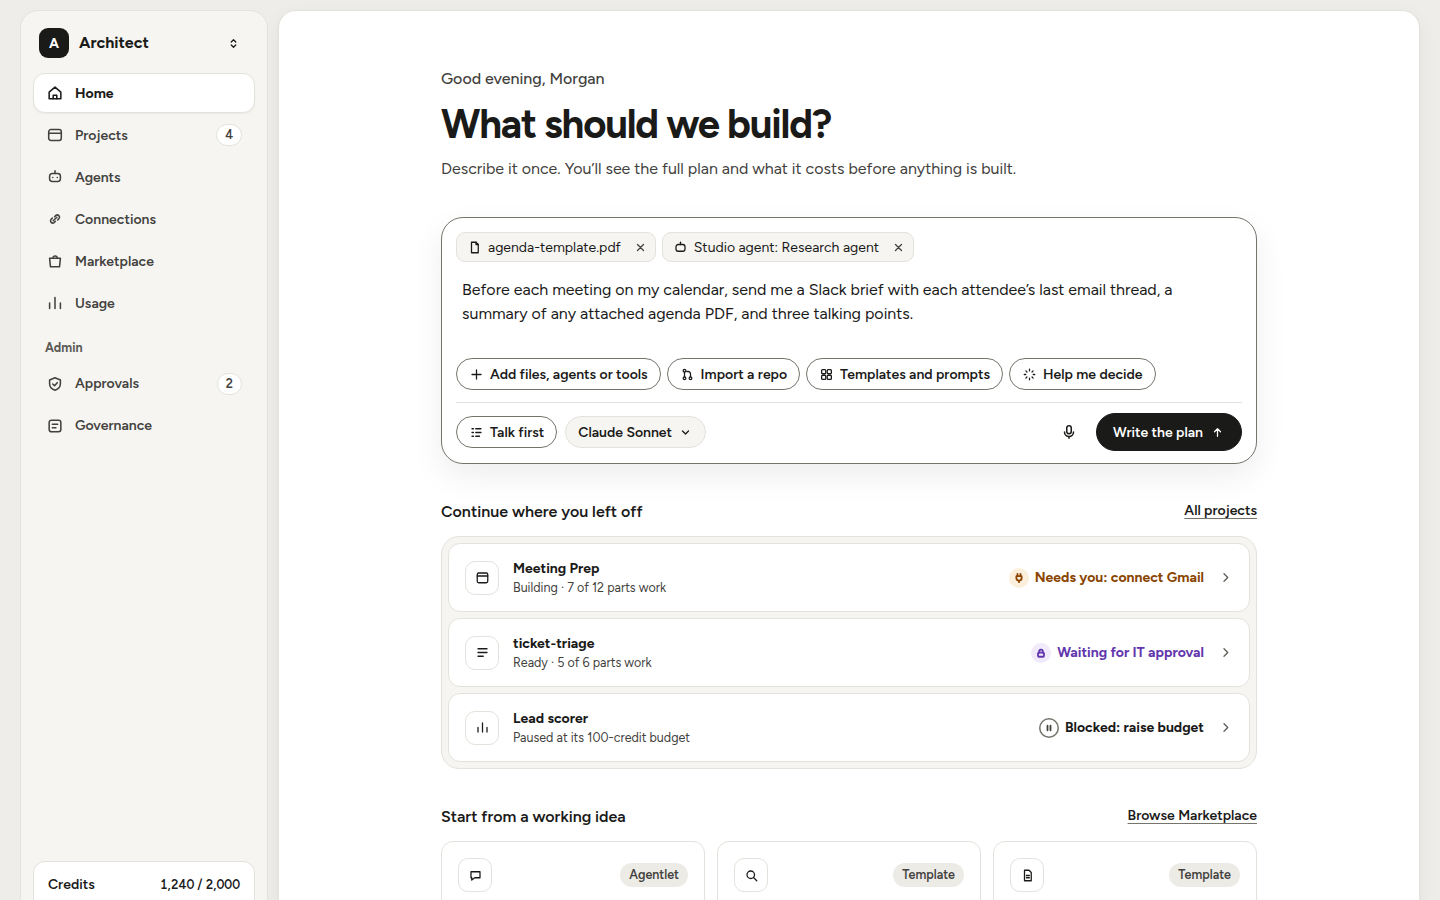
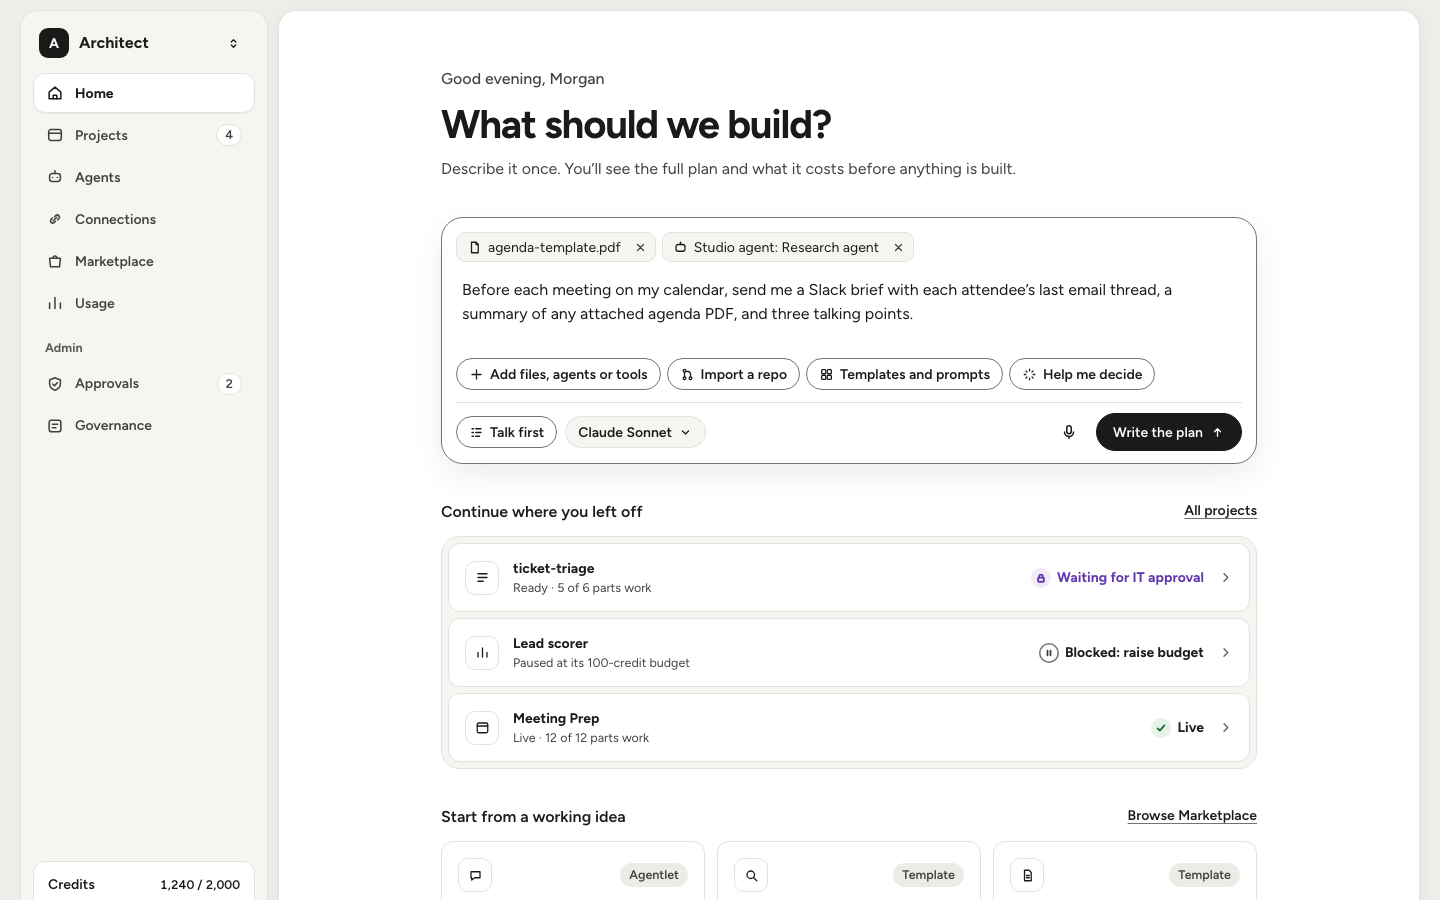
Show Sam as ticket-triage's owner, and Meeting Prep as live on screens 1 and 12
projects.owner_display_name lets lists show Sam while the signed-in person
is the real owner until the F8 hand-off; the seeded approvals carry Sam as
requester. Screens 1 and 12 now show Meeting Prep as Live, 12 of 12, with
a quiet check, matching the seed.

diff --git a/docs/screens/C12-Projects-Help.html b/docs/screens/C12-Projects-Help.html
@@ -40,7 +40,7 @@
 <div class="row" style="flex-wrap: wrap"><div class="col" style="gap: 4px; flex: 1"><h1 class="t-28">Projects</h1><span class="c2">4 projects · 372 credits used this month</span></div><label class="sr" for="find">Find a project</label><input id="find" placeholder="Find a project" style="min-height: 38px; border: 1px solid var(--line-ctl); border-radius: 9999px; padding: 0 16px; width: 220px; background: var(--surface)"><a class="btn pri" href="#"><svg class="ic s" viewBox="0 0 20 20" aria-hidden="true"><path d="M10 4v12M4 10h12"/></svg>New project</a></div>
 <div class="seg" role="group" aria-label="Show" style="align-self: flex-start"><button class="on" type="button" aria-pressed="true">All 4</button><button type="button" aria-pressed="false">Needs you 2</button><button type="button" aria-pressed="false">Live 1</button><button type="button" aria-pressed="false">Drafts 1</button></div>
 <div class="tray">
-<div class="lrow"><span class="tile dark" aria-hidden="true"><svg class="ic s" viewBox="0 0 20 20"><rect x="3" y="4" width="14" height="13" rx="2"/><path d="M3 8h14"/></svg></span><span class="col" style="flex: 1; min-width: 0"><a href="#" style="font-weight: 650; text-decoration: none">Meeting Prep</a><span class="t-12 c2">Morgan · 2 h ago · 172 credits</span></span><span class="tools"><span class="ini">C</span><span class="ini">G</span><span class="ini">S</span></span><span class="statusw w-attention" style="width: 210px"><i></i>Needs you: connect Gmail</span><button class="icb q" type="button" aria-label="Actions for Meeting Prep: open, duplicate, download code, share, delete"><svg class="ic" viewBox="0 0 20 20" aria-hidden="true"><circle cx="5" cy="10" r="1.1"/><circle cx="10" cy="10" r="1.1"/><circle cx="15" cy="10" r="1.1"/></svg></button></div>
+<div class="lrow"><span class="tile dark" aria-hidden="true"><svg class="ic s" viewBox="0 0 20 20"><rect x="3" y="4" width="14" height="13" rx="2"/><path d="M3 8h14"/></svg></span><span class="col" style="flex: 1; min-width: 0"><a href="#" style="font-weight: 650; text-decoration: none">Meeting Prep</a><span class="t-12 c2">Morgan · 2 h ago · 172 credits</span></span><span class="tools"><span class="ini">C</span><span class="ini">G</span><span class="ini">S</span></span><span class="statusw" style="width: 210px"><span class="st works" style="margin: 0"><svg viewBox="0 0 16 16" aria-hidden="true"><path d="M3.5 8.5l3 3 6-7"/></svg></span>Live</span><button class="icb q" type="button" aria-label="Actions for Meeting Prep: open, duplicate, download code, share, delete"><svg class="ic" viewBox="0 0 20 20" aria-hidden="true"><circle cx="5" cy="10" r="1.1"/><circle cx="10" cy="10" r="1.1"/><circle cx="15" cy="10" r="1.1"/></svg></button></div>
 <div class="lrow"><span class="tile" aria-hidden="true"><svg class="ic s" viewBox="0 0 20 20"><path d="M4 5h12M4 10h12M4 15h7"/></svg></span><span class="col" style="flex: 1; min-width: 0"><a href="#" style="font-weight: 650; text-decoration: none">ticket-triage</a><span class="t-12 c2">Sam · yesterday · 96 credits</span></span><span class="tools"><span class="ini">Z</span><span class="ini">S</span></span><span class="statusw w-approval" style="width: 210px"><i></i>Waiting for IT approval</span><button class="icb q" type="button" aria-label="Actions for ticket-triage"><svg class="ic" viewBox="0 0 20 20" aria-hidden="true"><circle cx="5" cy="10" r="1.1"/><circle cx="10" cy="10" r="1.1"/><circle cx="15" cy="10" r="1.1"/></svg></button></div>
 <div class="lrow"><span class="tile" aria-hidden="true"><svg class="ic s" viewBox="0 0 20 20"><path d="M4 16V10M10 16V4M16 16v-6"/></svg></span><span class="col" style="flex: 1; min-width: 0"><a href="#" style="font-weight: 650; text-decoration: none">Lead scorer</a><span class="t-12 c2">Morgan · Monday · 100 credits</span></span><span class="tools"><span class="ini">H</span></span><span class="statusw" style="width: 210px"><i></i>Blocked: budget used</span><button class="icb q" type="button" aria-label="Actions for Lead scorer"><svg class="ic" viewBox="0 0 20 20" aria-hidden="true"><circle cx="5" cy="10" r="1.1"/><circle cx="10" cy="10" r="1.1"/><circle cx="15" cy="10" r="1.1"/></svg></button></div>
 <div class="lrow"><span class="tile" aria-hidden="true"><svg class="ic s" viewBox="0 0 20 20"><path d="M6 3h6l3 3v11H6z"/></svg></span><span class="col" style="flex: 1; min-width: 0"><a href="#" style="font-weight: 650; text-decoration: none">Vendor tracker</a><span class="t-12 c2">Morgan · last week · 4 credits</span></span><span class="tools"><span class="ini">S</span><span class="ini">N</span></span><span class="statusw c2" style="width: 210px"><i></i>Plan ready, not built</span><button class="icb q" type="button" aria-label="Actions for Vendor tracker"><svg class="ic" viewBox="0 0 20 20" aria-hidden="true"><circle cx="5" cy="10" r="1.1"/><circle cx="10" cy="10" r="1.1"/><circle cx="15" cy="10" r="1.1"/></svg></button></div>

diff --git a/docs/screens/C01-Home.html b/docs/screens/C01-Home.html
@@ -66,9 +66,9 @@
 <section class="col" style="gap: 12px" aria-labelledby="cont">
 <div class="sech"><h2 id="cont" class="t-16">Continue where you left off</h2><span class="sp"></span><a href="#" class="lnk">All projects</a></div>
 <div class="tray">
-<a class="lrow" href="#"><span class="tile" aria-hidden="true"><svg class="ic s" viewBox="0 0 20 20"><rect x="3" y="4" width="14" height="13" rx="2"/><path d="M3 8h14"/></svg></span><span class="col" style="flex: 1; min-width: 0"><strong style="font-weight: 650">Meeting Prep</strong><span class="t-12 c2">Building · 7 of 12 parts work</span></span><span class="statusw w-attention"><span class="st attention" style="margin: 0"><svg viewBox="0 0 16 16" aria-hidden="true"><path d="M6 2.5v3M10 2.5v3M4.5 5.5h7v2.5a3.5 3.5 0 0 1-7 0zM8 11.5v2"/></svg></span>Needs you: connect Gmail</span><svg class="ic s c3" viewBox="0 0 20 20" aria-hidden="true"><path d="M8 5l5 5-5 5"/></svg></a>
 <a class="lrow" href="#"><span class="tile" aria-hidden="true"><svg class="ic s" viewBox="0 0 20 20"><path d="M4 5h12M4 10h12M4 15h7"/></svg></span><span class="col" style="flex: 1; min-width: 0"><strong style="font-weight: 650">ticket-triage</strong><span class="t-12 c2">Ready · 5 of 6 parts work</span></span><span class="statusw w-approval"><span class="st approval" style="margin: 0"><svg viewBox="0 0 16 16" aria-hidden="true"><rect x="4" y="7.5" width="8" height="5.5" rx="1.3"/><path d="M5.6 7.5V6a2.4 2.4 0 0 1 4.8 0v1.5"/></svg></span>Waiting for IT approval</span><svg class="ic s c3" viewBox="0 0 20 20" aria-hidden="true"><path d="M8 5l5 5-5 5"/></svg></a>
 <a class="lrow" href="#"><span class="tile" aria-hidden="true"><svg class="ic s" viewBox="0 0 20 20"><path d="M4 16V10M10 16V4M16 16v-6"/></svg></span><span class="col" style="flex: 1; min-width: 0"><strong style="font-weight: 650">Lead scorer</strong><span class="t-12 c2">Paused at its 100-credit budget</span></span><span class="statusw"><span class="st todo" style="margin: 0"><svg viewBox="0 0 16 16" aria-hidden="true"><path d="M6 5v6M10 5v6"/></svg></span>Blocked: raise budget</span><svg class="ic s c3" viewBox="0 0 20 20" aria-hidden="true"><path d="M8 5l5 5-5 5"/></svg></a>
+<a class="lrow" href="#"><span class="tile" aria-hidden="true"><svg class="ic s" viewBox="0 0 20 20"><rect x="3" y="4" width="14" height="13" rx="2"/><path d="M3 8h14"/></svg></span><span class="col" style="flex: 1; min-width: 0"><strong style="font-weight: 650">Meeting Prep</strong><span class="t-12 c2">Live · 12 of 12 parts work</span></span><span class="statusw"><span class="st works" style="margin: 0"><svg viewBox="0 0 16 16" aria-hidden="true"><path d="M3.5 8.5l3 3 6-7"/></svg></span>Live</span><svg class="ic s c3" viewBox="0 0 20 20" aria-hidden="true"><path d="M8 5l5 5-5 5"/></svg></a>
 </div>
 </section>
 <section class="col" style="gap: 12px" aria-labelledby="ideas">

diff --git a/test/unit/migrations.test.ts b/test/unit/migrations.test.ts
@@ -66,6 +66,17 @@ describe("create_demo_workspace", () => {
     expect(await count("select count(*) as n from members where workspace_id = $1 and status = 'invited'", [ws])).toBe(2);
   });
 
+  it("shows Sam as ticket-triage's owner while the real owner is the signed-in person", async () => {
+    const p = await one<{ owner_id: string; owner_display_name: string }>(
+      "select owner_id, owner_display_name from projects where name = 'ticket-triage' limit 1",
+    );
+    expect(p).toEqual({ owner_id: MORGAN, owner_display_name: "Sam" });
+    expect(
+      await count("select count(*) as n from approvals where kind in ('deploy','token') and payload->>'requested_by_name' = 'Sam'"),
+    ).toBe(2);
+    expect(await count("select count(*) as n from projects where name <> 'ticket-triage' and owner_display_name is not null")).toBe(0);
+  });
+
   it("every built part has a passing proof (DATA-MODEL rule 5)", async () => {
     expect(
       await count(`select count(*) as n from items i where i.status = 'built'
